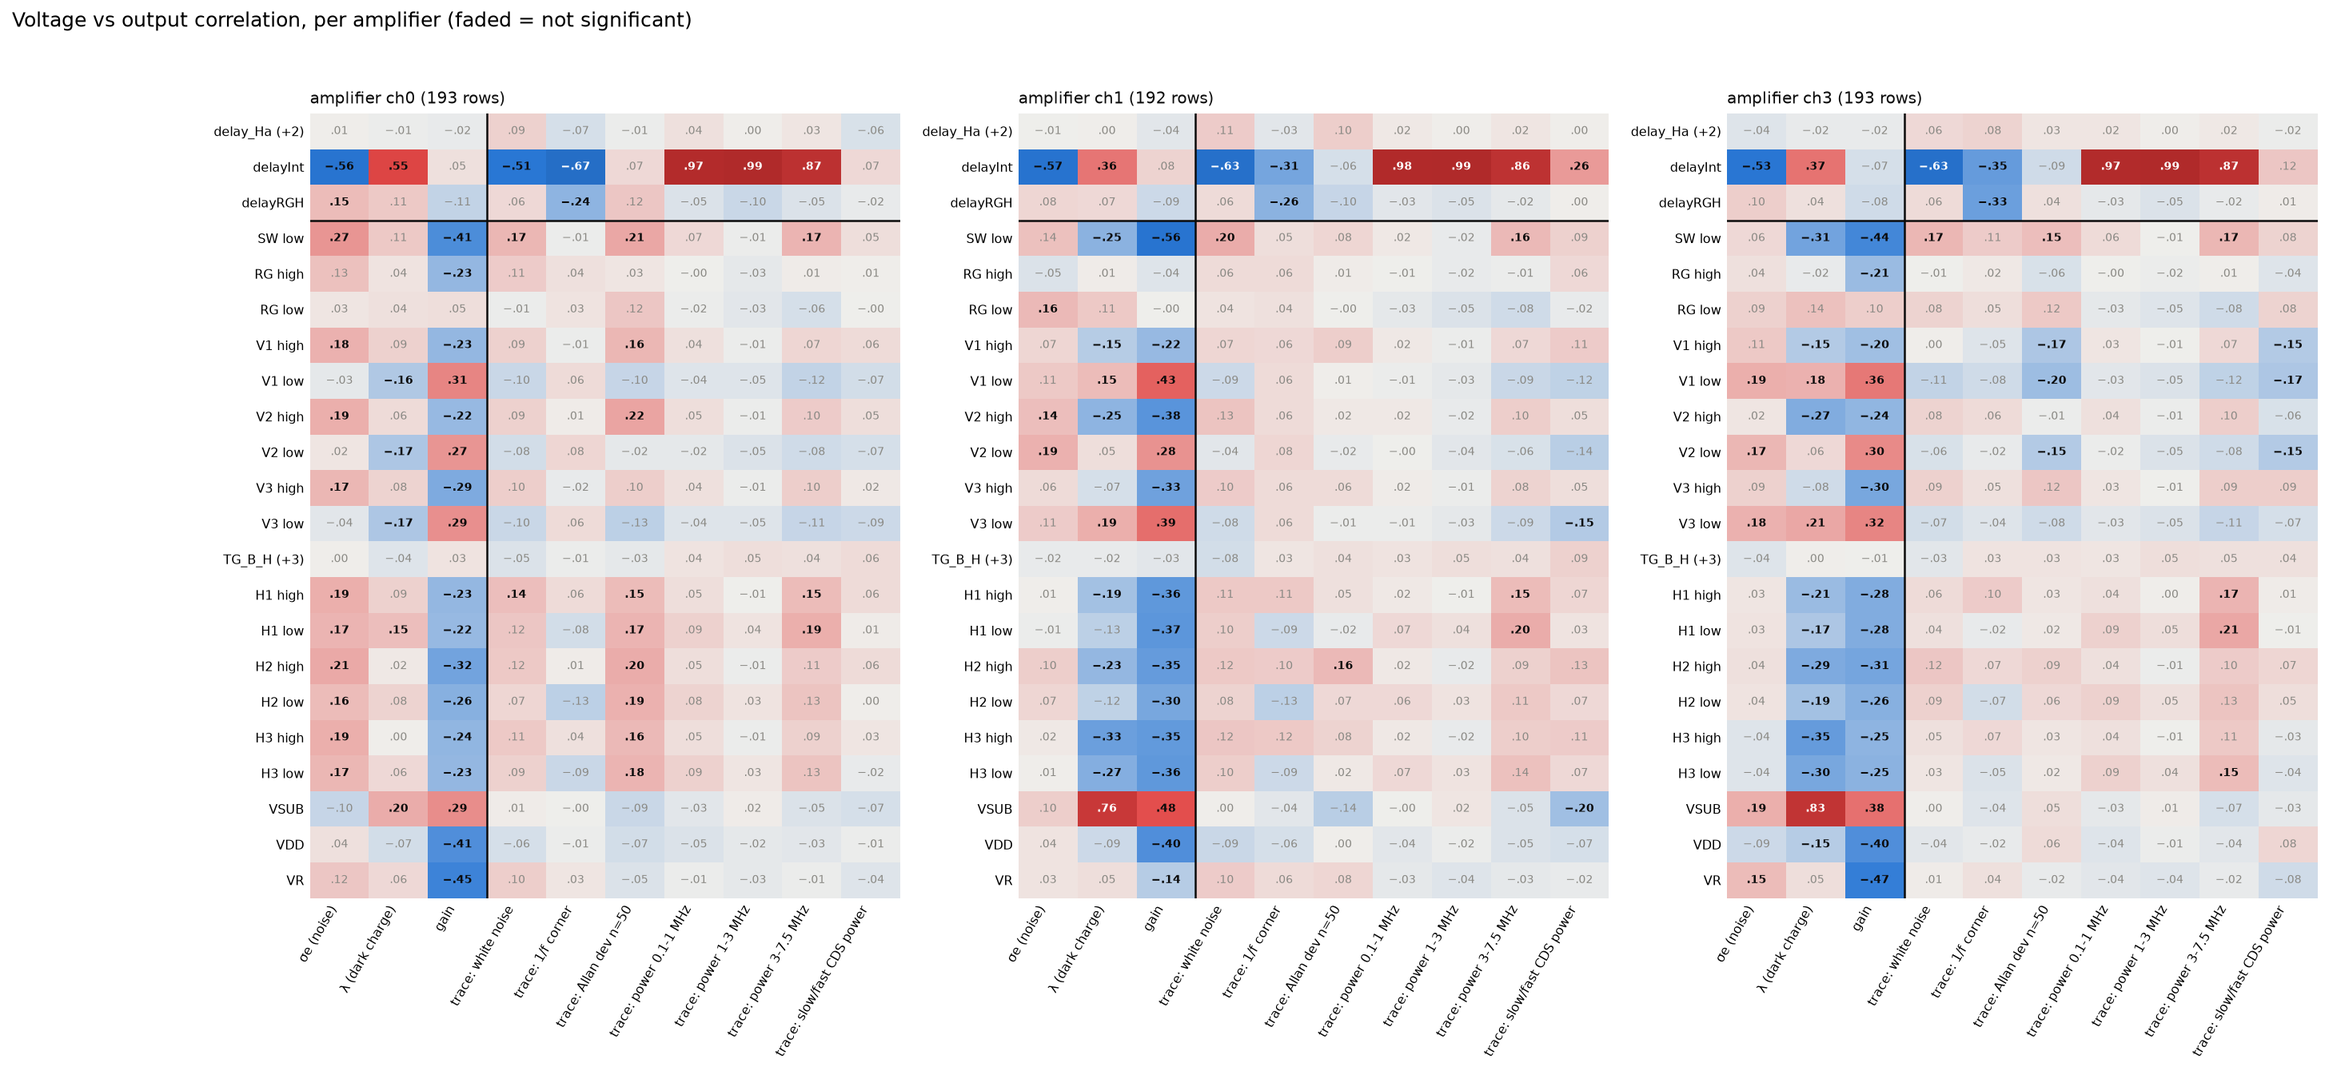
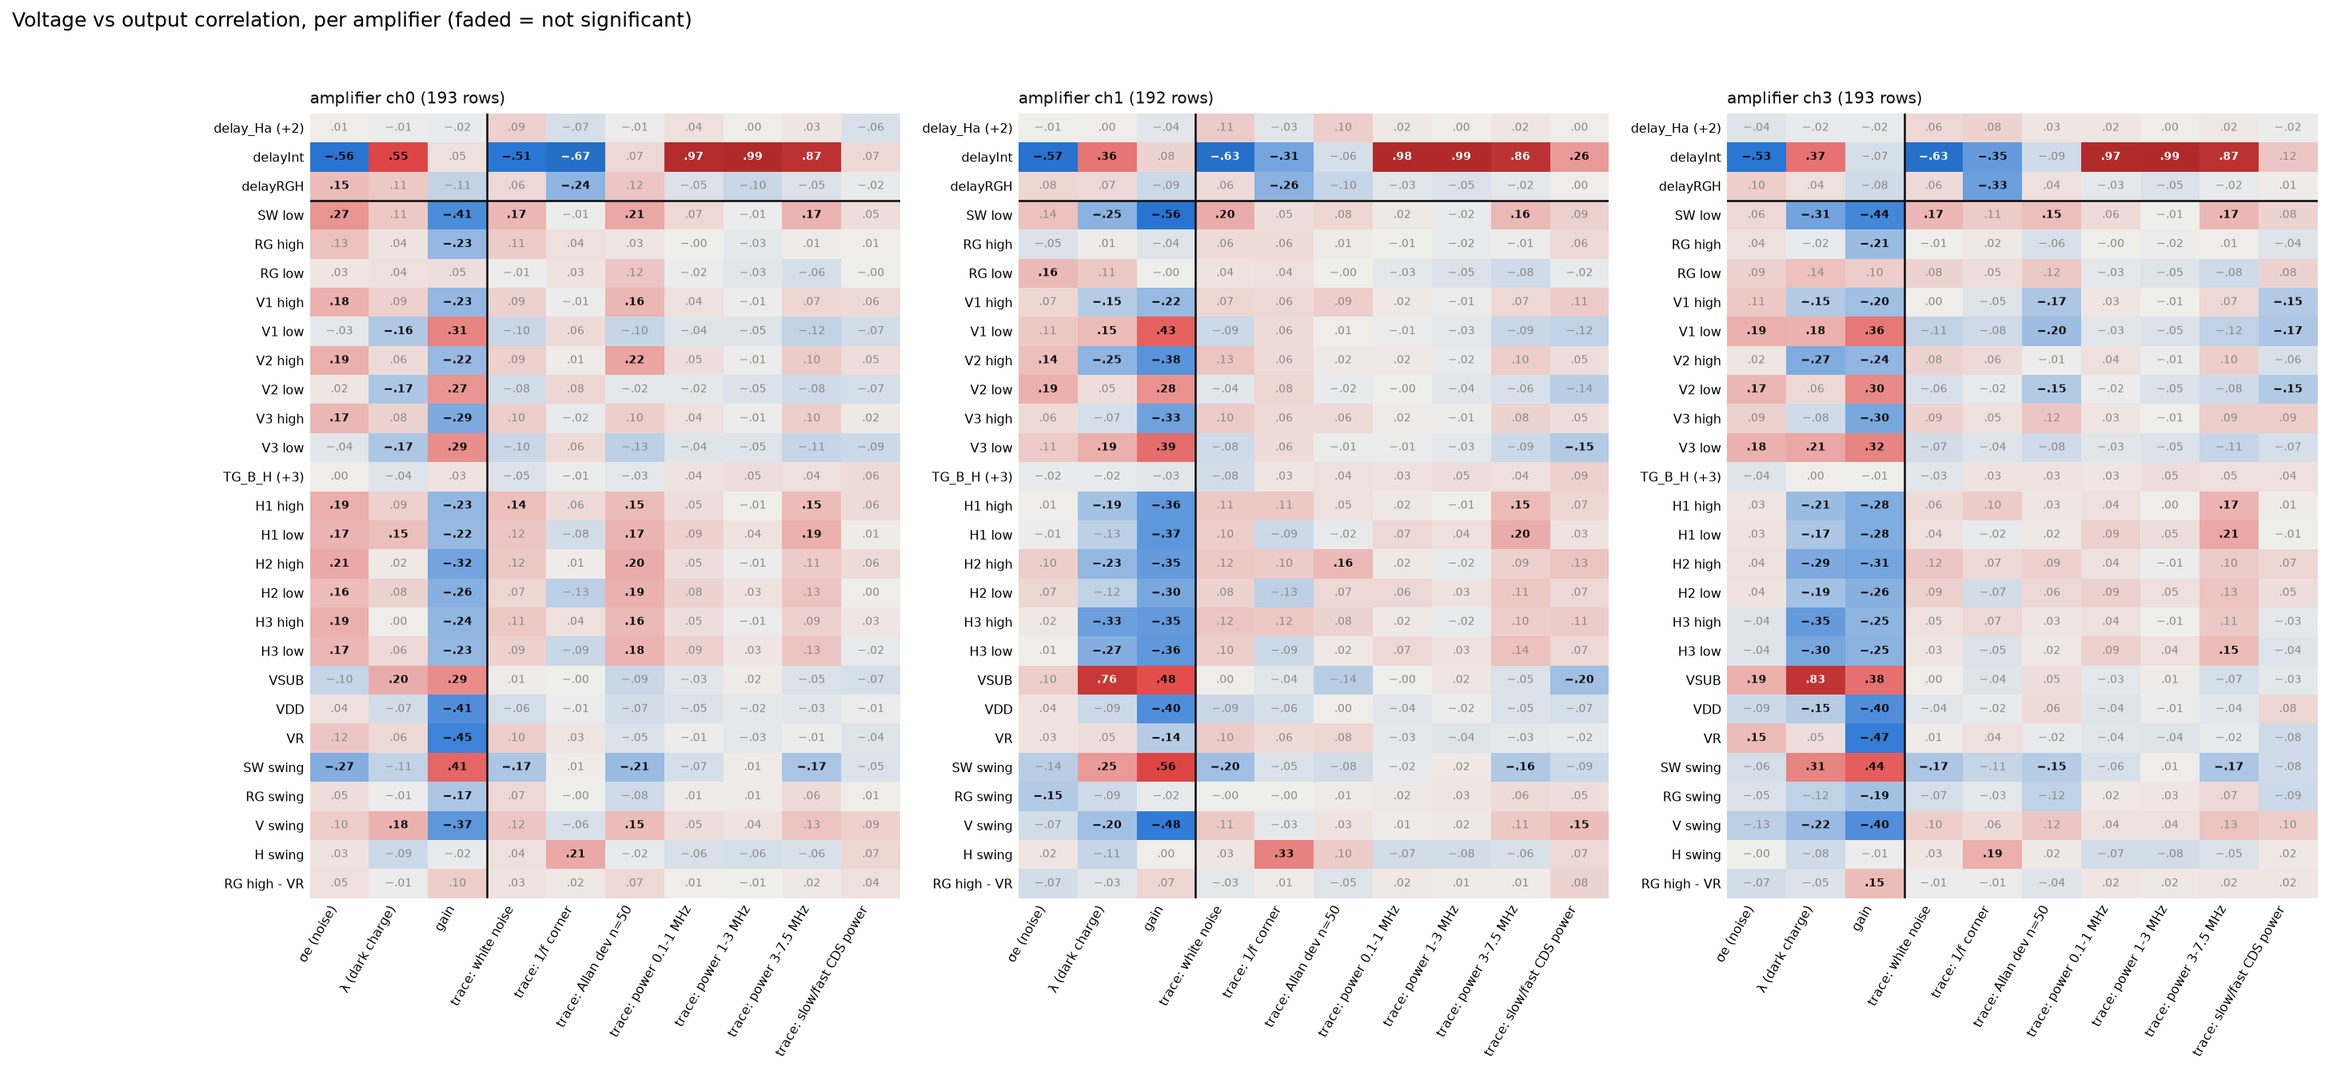
correlations: clock swings (high - low) and RG_high - VR as derived knobs; partial correlations with each clock as (low, swing)

Changed region(s): [[0.0937, 0.1224, 0.9997, 0.8567]]

diff --git a/lvl1/correlation_v3.py b/lvl1/correlation_v3.py
@@ -38,7 +38,7 @@ import parameter_influence as pi  # noqa: E402
 # diverging: blue (negative) - neutral gray - red (positive)
 CMAP = LinearSegmentedColormap.from_list("div", ["#1c5cab", "#2a78d6", "#f0efec", "#e34948", "#b02a2a"])
 INK, MUTED = "#0b0b0b", "#8a8984"
-PRETTY = {"SW_1_L": "SW low", "RG_1_H": "RG high", "RG_1_L": "RG low", "V1_B_H": "V1 high", "V1_B_L": "V1 low",
+PRETTY = {"SW_1_L": "SW low", "SW_1_H": "SW high", "RG_1_H": "RG high", "RG_1_L": "RG low", "V1_B_H": "V1 high", "V1_B_L": "V1 low",
           "V2_C_H": "V2 high", "V2_C_L": "V2 low", "V3_B_H": "V3 high", "V3_B_L": "V3 low", "H1_B_H": "H1 high",
           "H1_B_L": "H1 low", "H2_C_H": "H2 high", "H2_C_L": "H2 low", "H3_B_H": "H3 high", "H3_B_L": "H3 low",
           "VSUB": "VSUB", "VDD1": "VDD", "VR1": "VR"}
@@ -95,14 +95,53 @@ def main():
     d = pi.load(Path(args.data), [Path(p) for p in args.plan], args.sessions, args.channels, pi.NOISE)
     K, members, _ = pi.knobs(d)
     K.columns = [nice_knob(c) for c in K.columns]
+    # derived quantities: each clock's swing (high - low) and the reset overdrive RG_high - VR.  Swings that moved in
+    # lockstep (one shared knob in the design, e.g. all V swings) are merged under one name.
+    num = lambda c: pd.to_numeric(d[c], errors="coerce").astype(float).to_numpy()
+    swings = {}
+    for h in [c for c in d.columns if c.startswith("theta.") and c.endswith("_H")]:
+        lo = h[:-2] + "_L"
+        if lo not in d:
+            continue
+        s = num(h) - num(lo)
+        if not np.isfinite(s).all() or np.nanstd(s) < 0.01:
+            continue
+        base = nice_knob(h[len("theta."):]).replace(" high", "")
+        for k, (v, names) in swings.items():
+            if np.allclose(v, s) or abs(np.corrcoef(v, s)[0, 1]) > 0.999:
+                names.append(base)
+                break
+        else:
+            swings[base] = (s, [base])
+    D = {}
+    swing_of = {}                                            # high-rail column -> the swing column replacing it
+    for base, (s, names) in swings.items():
+        uniq = sorted(set(n for n in names))
+        if any(n.startswith("V") and n[1:2].isdigit() for n in uniq) and len(uniq) > 1:
+            label = "V swing"
+        elif any(n.startswith("H") and n[1:2].isdigit() for n in uniq) and len(uniq) > 1:
+            label = "H swing"
+        else:
+            label = f"{uniq[0]} swing"
+        D[label] = s
+        for n in uniq:
+            swing_of[f"{n} high"] = label
+    if "theta.RG_1_H" in d and "theta.VR1" in d:
+        D["RG high - VR"] = num("theta.RG_1_H") - num("theta.VR1")
+    D = pd.DataFrame(D, index=K.index)
+    # plain matrices: every knob + the derived quantities; partial correlations: each clock as (low, swing)
+    K_all = pd.concat([K, D], axis=1)
+    K_part = pd.concat([K.drop(columns=[c for c in K.columns if c in swing_of]),
+                        D[[c for c in D.columns if c.endswith("swing")]]], axis=1)
+    print("derived:", list(D.columns), "| partial set:", list(K_part.columns))
     outs = {OUT_NICE[t]: d[f"log_{t}"] for t in pi.LAB} | {f"trace: {n}": d[f"log_{n}"] for n in pi.NOISE}
     O = pd.DataFrame(outs)
     amp = d.channel.to_numpy()
     n_eff = d.packet_id.nunique()
     thr = 1.96 / np.sqrt(n_eff)
-    A = pd.concat([K, O], axis=1)
+    A = pd.concat([K_all, O], axis=1)
     W = A - A.groupby(amp).transform("mean")                  # within amplifier
-    nk = K.shape[1]
+    nk = K_all.shape[1]
 
     # 1 full matrices
     for meth, fn in (("pearson", "corr_full.png"), ("spearman", "corr_full_spearman.png")):
@@ -119,14 +158,14 @@ def main():
         plt.close(fig)
 
     # 2 knobs x outputs: plain vs partial
-    Cko = W.corr().loc[K.columns, O.columns]
+    Cko = W.corr().loc[K_all.columns, O.columns]
     onehot = np.eye(len(np.unique(amp)))[np.unique(amp, return_inverse=True)[1]][:, 1:]
-    P = pd.DataFrame({c: partial_corr(K.to_numpy(float), O[c].to_numpy(float), onehot) for c in O.columns},
-                     index=K.columns)
+    P = pd.DataFrame({c: partial_corr(K_part.to_numpy(float), O[c].to_numpy(float), onehot) for c in O.columns},
+                     index=K_part.columns)
     P.round(3).to_csv(out / "corr_partial.csv")
     fig, axs = plt.subplots(1, 2, figsize=(17, 8.5))
     heat(axs[0], Cko, thr, "Correlation: voltage vs output (within amplifier)", fs=7, seps=(3,))
-    heat(axs[1], P, thr, "Partial correlation: this voltage alone (other voltages + amplifier held fixed)", fs=7, seps=(3,))
+    heat(axs[1], P, thr, "Partial correlation: this knob alone (each clock as low + swing; others + amplifier held fixed)", fs=7, seps=(3,))
     fig.colorbar(axs[1].images[0], ax=axs, fraction=0.02, pad=0.01, label="correlation")
     fig.savefig(out / "corr_knobs_outputs.png", dpi=150, bbox_inches="tight")
     plt.close(fig)
@@ -138,7 +177,7 @@ def main():
     for ax, a in zip(np.atleast_1d(axs), amps):
         m = amp == a
         ne = d.packet_id[m].nunique()
-        Ca = A[m].corr().loc[K.columns, O.columns]
+        Ca = A[m].corr().loc[K_all.columns, O.columns]
         heat(ax, Ca, 1.96 / np.sqrt(ne), f"amplifier ch{a} ({m.sum()} rows)", fs=6.5, seps=(3,))
         rows.append(Ca.assign(amplifier=a))
     pd.concat(rows).round(3).to_csv(out / "corr_per_amp.csv")
@@ -148,7 +187,7 @@ def main():
 
     # 4 design
     fig, ax = plt.subplots(figsize=(10, 9))
-    heat(ax, K.groupby(d.packet_id).first().corr(), thr,
+    heat(ax, K_all.groupby(d.packet_id).first().corr(), thr,
          "Design check: correlation between the voltages over the packets (0 = varied independently)", fs=7)
     fig.tight_layout()
     fig.savefig(out / "corr_design.png", dpi=150)
@@ -171,7 +210,7 @@ def main():
              for i in range(len(Co)) for j in range(i + 1, len(Co))]
     for _, a_, b_, r in sorted(pairs, reverse=True)[:10]:
         L.append(f"- {a_} ~ {b_}: {r:+.2f}")
-    D = K.groupby(d.packet_id).first().corr().to_numpy()
+    D = K_all.groupby(d.packet_id).first().corr().to_numpy()
     off = np.abs(D[~np.eye(len(D), dtype=bool)])
     L += ["", f"Design: largest |correlation| between two voltages over the packets {off.max():.2f}, median {np.median(off):.2f}."]
     (out / "correlations.md").write_text("\n".join(L) + "\n")

diff --git a/docs/overleaf_v3_report_2026-11-16/figures/tables_corr.tex b/docs/overleaf_v3_report_2026-11-16/figures/tables_corr.tex
@@ -2,15 +2,15 @@
 \caption{The five voltages most correlated with each output \emph{on their own} (partial correlation: the other voltages and the amplifier held fixed), with the plain within-amplifier correlation in brackets. * = significant ($|r|\ge0.22$).}\label{tab:corr}
 \begin{tabular}{p{3cm}p{2.2cm}p{2.2cm}p{2.2cm}p{2.2cm}p{2.2cm}}\toprule
 output & 1st & 2nd & 3rd & 4th & 5th\\\midrule
-$\sigma_e$ (noise) & VSUB +0.55* (+0.63) & VDD +0.20 ($-$0.04) & RG high $-$0.17 ($-$0.06) & VR +0.16 (+0.17) & SW low +0.15 ($-$0.21)\\
-$\lambda$ (dark charge) & VSUB +0.84* (+0.88) & SW low +0.16 ($-$0.18) & VDD +0.10 ($-$0.20) & RG low +0.09 (+0.13) & V3 high +0.09 (+0.02)\\
-gain & VDD $-$0.75* ($-$0.63) & VR $-$0.58* ($-$0.40) & SW low $-$0.20 (+0.10) & RG high +0.18 ($-$0.20) & H2 low +0.15 (+0.07)\\
-trace: white noise & VDD $-$0.51* ($-$0.54) & VSUB +0.50* (+0.55) & H3 low +0.09 ($-$0.10) & RG high +0.09 ($-$0.01) & SW low $-$0.09 ($-$0.03)\\
-trace: 1/f corner & RG low +0.09 (+0.03) & VSUB $-$0.08 ($-$0.02) & VDD $-$0.08 ($-$0.01) & RG high +0.07 (+0.01) & V1 high $-$0.05 ($-$0.03)\\
-trace: Allan dev n=50 & SW low $-$0.12 ($-$0.01) & VDD $-$0.11 ($-$0.12) & RG high $-$0.08 ($-$0.08) & RG low +0.08 (+0.06) & V3 low +0.07 ($-$0.06)\\
-trace: power 0.1-1 MHz & VDD $-$0.29* ($-$0.29) & VR $-$0.24* ($-$0.28) & RG high $-$0.18 ($-$0.28) & RG low $-$0.13 ($-$0.06) & V1 low +0.10 (+0.00)\\
-trace: power 1-3 MHz & RG low $-$0.25* ($-$0.23) & RG high $-$0.13 ($-$0.09) & VR $-$0.11 ($-$0.11) & V1 low +0.11 ($-$0.04) & H2 low +0.09 (+0.06)\\
-trace: power 3-7.5 MHz & RG low $-$0.21 ($-$0.18) & RG high $-$0.12 ($-$0.09) & VSUB +0.12 (+0.14) & V1 low +0.10 ($-$0.01) & VR $-$0.10 ($-$0.06)\\
-trace: slow/fast CDS power & VSUB $-$0.42* ($-$0.43) & SW low $-$0.12 (+0.05) & V1 low $-$0.10 ($-$0.09) & VR +0.10 (+0.03) & H1 low $-$0.09 (+0.06)\\
+$\sigma_e$ (noise) & VSUB +0.55* (+0.63) & VDD +0.20 ($-$0.04) & RG swing $-$0.17 ($-$0.10) & H3 low $-$0.16 ($-$0.35) & VR +0.16 (+0.17)\\
+$\lambda$ (dark charge) & VSUB +0.84* (+0.88) & VDD +0.10 ($-$0.20) & V1 low +0.09 (+0.29) & H swing $-$0.08 ($-$0.02) & RG swing $-$0.08 ($-$0.12)\\
+gain & VDD $-$0.75* ($-$0.63) & VR $-$0.58* ($-$0.40) & H3 low +0.27* (+0.20) & RG swing +0.18 ($-$0.20) & V3 low $-$0.18 ($-$0.17)\\
+trace: white noise & VDD $-$0.51* ($-$0.54) & VSUB +0.50* (+0.55) & V3 low $-$0.16 (+0.03) & H1 low $-$0.15 ($-$0.11) & V1 low $-$0.14 (+0.07)\\
+trace: 1/f corner & H swing +0.38* (+0.44) & SW swing +0.14 (+0.01) & RG low +0.11 (+0.03) & V1 low $-$0.10 ($-$0.01) & V swing $-$0.10 ($-$0.01)\\
+trace: Allan dev n=50 & VDD $-$0.11 ($-$0.12) & H1 low $-$0.11 ($-$0.07) & V2 low $-$0.10 ($-$0.08) & V3 low $-$0.09 ($-$0.06) & SW swing +0.09 (+0.01)\\
+trace: power 0.1-1 MHz & VDD $-$0.29* ($-$0.29) & VR $-$0.24* ($-$0.28) & RG low $-$0.22 ($-$0.06) & RG swing $-$0.18 ($-$0.10) & H swing $-$0.14 ($-$0.17)\\
+trace: power 1-3 MHz & RG low $-$0.24* ($-$0.23) & H swing $-$0.19 ($-$0.23) & H1 low +0.18 (+0.14) & H3 low $-$0.17 ($-$0.09) & RG swing $-$0.13 (+0.14)\\
+trace: power 3-7.5 MHz & RG low $-$0.22 ($-$0.18) & H3 low $-$0.19 ($-$0.15) & V1 low $-$0.18 ($-$0.01) & H1 low +0.17 (+0.11) & H swing $-$0.14 ($-$0.18)\\
+trace: slow/fast CDS power & VSUB $-$0.42* ($-$0.43) & V2 low $-$0.10 ($-$0.19) & VR +0.10 (+0.03) & H swing +0.09 (+0.05) & V3 low $-$0.09 ($-$0.16)\\
 \bottomrule\end{tabular}\end{table}
 

diff --git a/processed_v3n/lvl1_results/correlations/correlations.md b/processed_v3n/lvl1_results/correlations/correlations.md
@@ -6,16 +6,16 @@ Knob groups that moved together: SW low = SW_1_L+SW_2_L; RG high = RG_1_H+RG_2_H
 
 | output | 1st | 2nd | 3rd | 4th | 5th |
 |---|---|---|---|---|---|
-| σe (noise) | VSUB +0.54 | VDD +0.20 (n.s.) | RG high -0.17 (n.s.) | VR +0.16 (n.s.) | SW low +0.15 (n.s.) |
-| λ (dark charge) | VSUB +0.84 | SW low +0.16 (n.s.) | VDD +0.10 (n.s.) | RG low +0.09 (n.s.) | V3 high +0.08 (n.s.) |
-| gain | VDD -0.75 | VR -0.58 | SW low -0.20 (n.s.) | RG high +0.18 (n.s.) | H2 low +0.15 (n.s.) |
-| trace: white noise | VDD -0.51 | VSUB +0.50 | H3 low +0.09 (n.s.) | RG high +0.09 (n.s.) | SW low -0.09 (n.s.) |
-| trace: 1/f corner | RG low +0.09 (n.s.) | VSUB -0.08 (n.s.) | VDD -0.08 (n.s.) | RG high +0.07 (n.s.) | V1 high -0.05 (n.s.) |
-| trace: Allan dev n=50 | SW low -0.12 (n.s.) | VDD -0.11 (n.s.) | RG high -0.08 (n.s.) | RG low +0.08 (n.s.) | V3 low +0.07 (n.s.) |
-| trace: power 0.1-1 MHz | VDD -0.29 | VR -0.24 | RG high -0.18 (n.s.) | RG low -0.13 (n.s.) | V1 low +0.10 (n.s.) |
-| trace: power 1-3 MHz | RG low -0.25 | RG high -0.13 (n.s.) | VR -0.11 (n.s.) | V1 low +0.11 (n.s.) | H2 low +0.09 (n.s.) |
-| trace: power 3-7.5 MHz | RG low -0.21 (n.s.) | RG high -0.13 (n.s.) | VSUB +0.12 (n.s.) | V1 low +0.11 (n.s.) | VR -0.10 (n.s.) |
-| trace: slow/fast CDS power | VSUB -0.42 | SW low -0.13 (n.s.) | V1 low -0.10 (n.s.) | VR +0.09 (n.s.) | H1 low -0.08 (n.s.) |
+| σe (noise) | VSUB +0.54 | VDD +0.20 (n.s.) | RG swing -0.17 (n.s.) | VR +0.16 (n.s.) | H3 low -0.16 (n.s.) |
+| λ (dark charge) | VSUB +0.84 | VDD +0.10 (n.s.) | V1 low +0.09 (n.s.) | H swing -0.08 (n.s.) | RG swing -0.08 (n.s.) |
+| gain | VDD -0.75 | VR -0.58 | H3 low +0.27 | RG swing +0.18 (n.s.) | V3 low -0.18 (n.s.) |
+| trace: white noise | VDD -0.51 | VSUB +0.50 | V3 low -0.16 (n.s.) | H1 low -0.15 (n.s.) | V1 low -0.14 (n.s.) |
+| trace: 1/f corner | H swing +0.38 | SW swing +0.14 (n.s.) | RG low +0.11 (n.s.) | V1 low -0.10 (n.s.) | V swing -0.10 (n.s.) |
+| trace: Allan dev n=50 | VDD -0.11 (n.s.) | H1 low -0.11 (n.s.) | V2 low -0.10 (n.s.) | V3 low -0.09 (n.s.) | SW swing +0.09 (n.s.) |
+| trace: power 0.1-1 MHz | VDD -0.29 | VR -0.24 | RG low -0.22 (n.s.) | RG swing -0.18 (n.s.) | H swing -0.14 (n.s.) |
+| trace: power 1-3 MHz | RG low -0.24 | H swing -0.19 (n.s.) | H1 low +0.18 (n.s.) | H3 low -0.17 (n.s.) | RG swing -0.13 (n.s.) |
+| trace: power 3-7.5 MHz | RG low -0.22 (n.s.) | H3 low -0.19 (n.s.) | V1 low -0.18 (n.s.) | H1 low +0.17 (n.s.) | H swing -0.14 (n.s.) |
+| trace: slow/fast CDS power | VSUB -0.42 | V2 low -0.10 (n.s.) | VR +0.09 (n.s.) | H swing +0.09 (n.s.) | V3 low -0.09 (n.s.) |
 
 Largest correlations between outputs (within amplifier):
 
@@ -30,4 +30,4 @@ Largest correlations between outputs (within amplifier):
 - gain ~ trace: white noise: +0.38
 - gain ~ trace: power 0.1-1 MHz: +0.34
 
-Design: largest |correlation| between two voltages over the packets 0.83, median 0.16.
+Design: largest |correlation| between two voltages over the packets 1.00, median 0.15.

diff --git a/processed_v123/lvl1_results/correlations/correlations.md b/processed_v123/lvl1_results/correlations/correlations.md
@@ -6,16 +6,16 @@ Knob groups that moved together: delay_Ha (+2) = delay_Ha+delay_Hb+delay_Hc; SW 
 
 | output | 1st | 2nd | 3rd | 4th | 5th |
 |---|---|---|---|---|---|
-| σe (noise) | delayInt -0.58 | SW low +0.26 | VSUB +0.24 | V1 low +0.23 | VDD +0.13 (n.s.) |
-| λ (dark charge) | VSUB +0.68 | delayInt +0.54 | delayRGH +0.19 | SW low +0.12 (n.s.) | VDD +0.08 (n.s.) |
-| gain | VDD -0.55 | VR -0.44 | SW low -0.32 | V3 high -0.12 (n.s.) | VSUB +0.10 (n.s.) |
-| trace: white noise | delayInt -0.60 | VSUB +0.16 | V1 low +0.15 | V1 high -0.14 | SW low +0.13 (n.s.) |
-| trace: 1/f corner | delayInt -0.45 | delayRGH -0.34 | SW low +0.08 (n.s.) | RG low +0.06 (n.s.) | V3 high -0.06 (n.s.) |
-| trace: Allan dev n=50 | SW low +0.10 (n.s.) | V1 low +0.06 (n.s.) | RG low +0.06 (n.s.) | H1 low +0.05 (n.s.) | VSUB +0.05 (n.s.) |
-| trace: power 0.1-1 MHz | delayInt +0.98 | SW low +0.18 | delayRGH +0.10 (n.s.) | H3 low -0.10 (n.s.) | V1 low +0.09 (n.s.) |
-| trace: power 1-3 MHz | delayInt +0.99 | delay_Ha (+2) -0.21 | TG_B_H (+3) +0.13 (n.s.) | V1 high +0.09 (n.s.) | RG low -0.08 (n.s.) |
-| trace: power 3-7.5 MHz | delayInt +0.89 | SW low +0.22 | RG low -0.14 | V1 low +0.10 (n.s.) | V3 high +0.08 (n.s.) |
-| trace: slow/fast CDS power | delayInt +0.15 | V1 low -0.08 (n.s.) | V3 high -0.08 (n.s.) | VSUB -0.07 (n.s.) | TG_B_H (+3) +0.06 (n.s.) |
+| σe (noise) | delayInt -0.58 | VSUB +0.24 | H2 low +0.14 (n.s.) | V2 low +0.13 (n.s.) | VDD +0.13 (n.s.) |
+| λ (dark charge) | VSUB +0.68 | delayInt +0.54 | delayRGH +0.19 | H swing -0.09 (n.s.) | VDD +0.08 (n.s.) |
+| gain | VDD -0.55 | VR -0.44 | H2 low -0.11 (n.s.) | V swing -0.11 (n.s.) | V3 low -0.10 (n.s.) |
+| trace: white noise | delayInt -0.60 | VSUB +0.16 | delay_Ha (+2) +0.12 (n.s.) | H2 low +0.08 (n.s.) | V2 low +0.05 (n.s.) |
+| trace: 1/f corner | delayInt -0.45 | delayRGH -0.34 | H swing +0.18 | V1 low -0.06 (n.s.) | RG low +0.06 (n.s.) |
+| trace: Allan dev n=50 | H2 low +0.09 (n.s.) | V1 low -0.08 (n.s.) | H swing +0.07 (n.s.) | V3 low +0.05 (n.s.) | VSUB +0.05 (n.s.) |
+| trace: power 0.1-1 MHz | delayInt +0.98 | V2 low +0.12 (n.s.) | V3 low +0.11 (n.s.) | H swing +0.10 (n.s.) | delayRGH +0.10 (n.s.) |
+| trace: power 1-3 MHz | delayInt +0.99 | delay_Ha (+2) -0.21 | TG_B_H (+3) +0.13 (n.s.) | RG low -0.10 (n.s.) | H1 low +0.08 (n.s.) |
+| trace: power 3-7.5 MHz | delayInt +0.89 | H1 low +0.17 | H swing +0.11 (n.s.) | RG low -0.10 (n.s.) | V3 low +0.09 (n.s.) |
+| trace: slow/fast CDS power | delayInt +0.15 | H3 low -0.08 (n.s.) | V1 low -0.08 (n.s.) | VSUB -0.07 (n.s.) | H swing +0.06 (n.s.) |
 
 Largest correlations between outputs (within amplifier):
 
@@ -30,4 +30,4 @@ Largest correlations between outputs (within amplifier):
 - σe (noise) ~ trace: power 0.1-1 MHz: -0.48
 - trace: white noise ~ trace: Allan dev n=50: +0.47
 
-Design: largest |correlation| between two voltages over the packets 0.85, median 0.09.
+Design: largest |correlation| between two voltages over the packets 1.00, median 0.09.

diff --git a/docs/overleaf_v3_report_2026-11-16/figures/tables.md b/docs/overleaf_v3_report_2026-11-16/figures/tables.md
@@ -41,14 +41,14 @@
 
 | output | 1st | 2nd | 3rd | 4th | 5th |
 |---|---|---|---|---|---|
-| σe (noise) | VSUB +0.55* (+0.63) | VDD +0.20 (-0.04) | RG high -0.17 (-0.06) | VR +0.16 (+0.17) | SW low +0.15 (-0.21) |
-| λ (dark charge) | VSUB +0.84* (+0.88) | SW low +0.16 (-0.18) | VDD +0.10 (-0.20) | RG low +0.09 (+0.13) | V3 high +0.09 (+0.02) |
-| gain | VDD -0.75* (-0.63) | VR -0.58* (-0.40) | SW low -0.20 (+0.10) | RG high +0.18 (-0.20) | H2 low +0.15 (+0.07) |
-| trace: white noise | VDD -0.51* (-0.54) | VSUB +0.50* (+0.55) | H3 low +0.09 (-0.10) | RG high +0.09 (-0.01) | SW low -0.09 (-0.03) |
-| trace: 1/f corner | RG low +0.09 (+0.03) | VSUB -0.08 (-0.02) | VDD -0.08 (-0.01) | RG high +0.07 (+0.01) | V1 high -0.05 (-0.03) |
-| trace: Allan dev n=50 | SW low -0.12 (-0.01) | VDD -0.11 (-0.12) | RG high -0.08 (-0.08) | RG low +0.08 (+0.06) | V3 low +0.07 (-0.06) |
-| trace: power 0.1-1 MHz | VDD -0.29* (-0.29) | VR -0.24* (-0.28) | RG high -0.18 (-0.28) | RG low -0.13 (-0.06) | V1 low +0.10 (+0.00) |
-| trace: power 1-3 MHz | RG low -0.25* (-0.23) | RG high -0.13 (-0.09) | VR -0.11 (-0.11) | V1 low +0.11 (-0.04) | H2 low +0.09 (+0.06) |
-| trace: power 3-7.5 MHz | RG low -0.21 (-0.18) | RG high -0.12 (-0.09) | VSUB +0.12 (+0.14) | V1 low +0.10 (-0.01) | VR -0.10 (-0.06) |
-| trace: slow/fast CDS power | VSUB -0.42* (-0.43) | SW low -0.12 (+0.05) | V1 low -0.10 (-0.09) | VR +0.10 (+0.03) | H1 low -0.09 (+0.06) |
+| σe (noise) | VSUB +0.55* (+0.63) | VDD +0.20 (-0.04) | RG swing -0.17 (-0.10) | H3 low -0.16 (-0.35) | VR +0.16 (+0.17) |
+| λ (dark charge) | VSUB +0.84* (+0.88) | VDD +0.10 (-0.20) | V1 low +0.09 (+0.29) | H swing -0.08 (-0.02) | RG swing -0.08 (-0.12) |
+| gain | VDD -0.75* (-0.63) | VR -0.58* (-0.40) | H3 low +0.27* (+0.20) | RG swing +0.18 (-0.20) | V3 low -0.18 (-0.17) |
+| trace: white noise | VDD -0.51* (-0.54) | VSUB +0.50* (+0.55) | V3 low -0.16 (+0.03) | H1 low -0.15 (-0.11) | V1 low -0.14 (+0.07) |
+| trace: 1/f corner | H swing +0.38* (+0.44) | SW swing +0.14 (+0.01) | RG low +0.11 (+0.03) | V1 low -0.10 (-0.01) | V swing -0.10 (-0.01) |
+| trace: Allan dev n=50 | VDD -0.11 (-0.12) | H1 low -0.11 (-0.07) | V2 low -0.10 (-0.08) | V3 low -0.09 (-0.06) | SW swing +0.09 (+0.01) |
+| trace: power 0.1-1 MHz | VDD -0.29* (-0.29) | VR -0.24* (-0.28) | RG low -0.22 (-0.06) | RG swing -0.18 (-0.10) | H swing -0.14 (-0.17) |
+| trace: power 1-3 MHz | RG low -0.24* (-0.23) | H swing -0.19 (-0.23) | H1 low +0.18 (+0.14) | H3 low -0.17 (-0.09) | RG swing -0.13 (+0.14) |
+| trace: power 3-7.5 MHz | RG low -0.22 (-0.18) | H3 low -0.19 (-0.15) | V1 low -0.18 (-0.01) | H1 low +0.17 (+0.11) | H swing -0.14 (-0.18) |
+| trace: slow/fast CDS power | VSUB -0.42* (-0.43) | V2 low -0.10 (-0.19) | VR +0.10 (+0.03) | H swing +0.09 (+0.05) | V3 low -0.09 (-0.16) |
 
